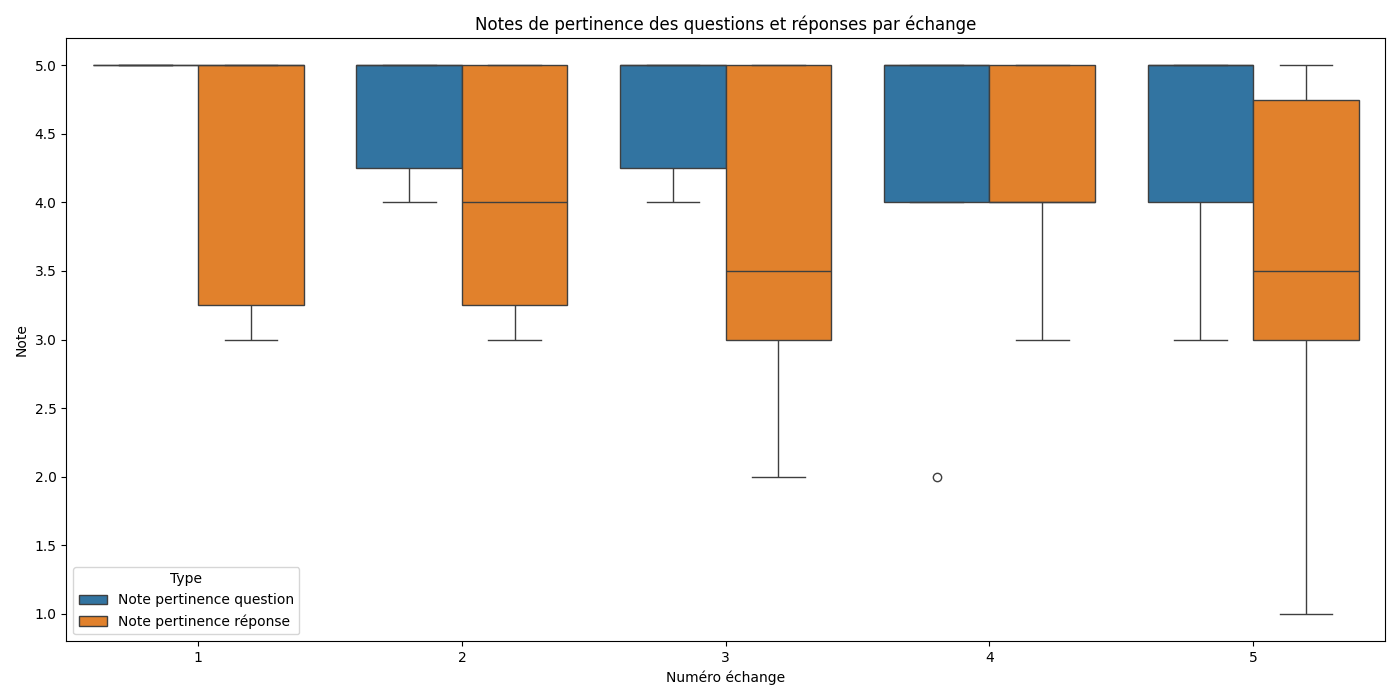
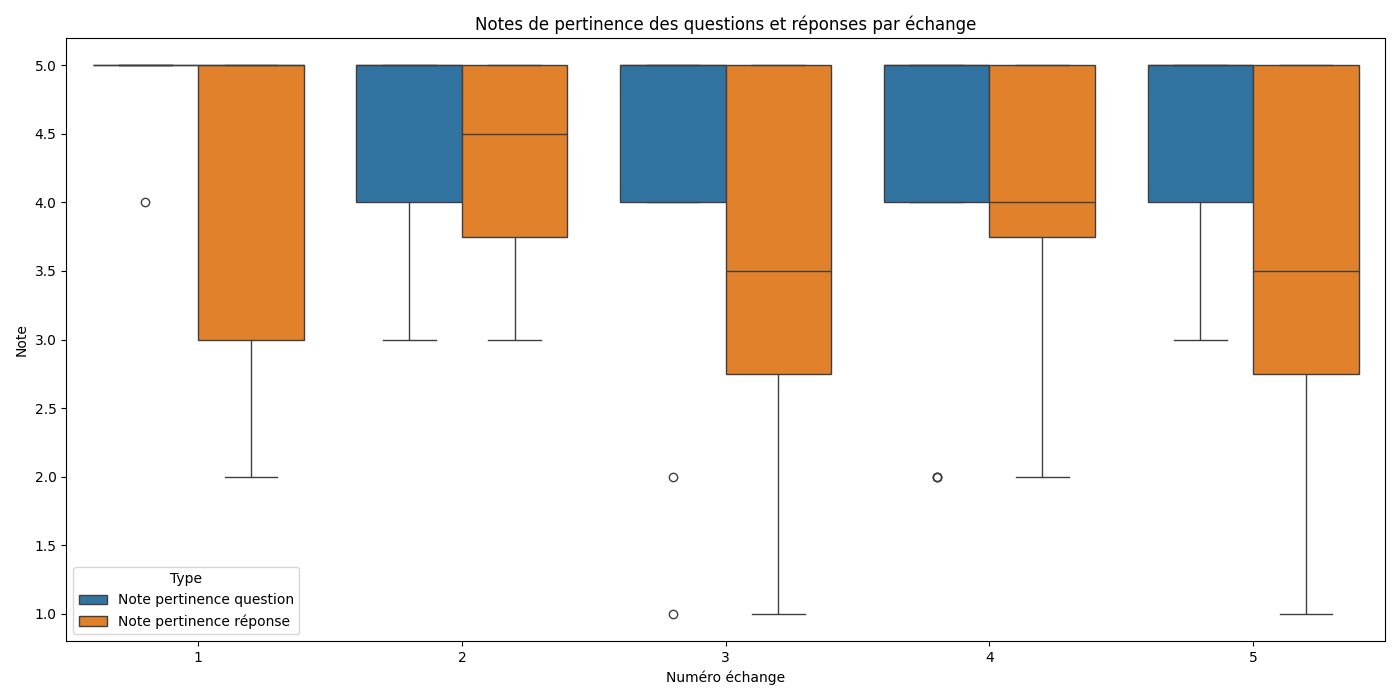
nouvelle évaluation + maj rapport statistique évaluation

diff --git a/sondages/conversations/output/rapport_statistique.md b/sondages/conversations/output/rapport_statistique.md
@@ -1,7 +1,7 @@
 # Rapport Statistique
 
-## Nombre total de conversations : 10
-## Nombre total d'échanges : 50
+## Nombre total de conversations : 16
+## Nombre total d'échanges : 80
 
 ## Graphiques
 
@@ -15,114 +15,115 @@
 
 ## Statistiques pour Échange 1
 ### Note pertinence question
-- **Moyenne**: 5.0
+- **Moyenne**: 4.9375
 - **Médiane**: 5.0
-- **Écart-type**: 0.0
-- **Min**: 5.0
+- **Écart-type**: 0.25
+- **Min**: 4.0
 - **Max**: 5.0
-- **Nombre de valeurs**: 10
+- **Nombre de valeurs**: 16
 ### Note pertinence réponse
-- **Moyenne**: 4.3
+- **Moyenne**: 4.1875
 - **Médiane**: 5.0
-- **Écart-type**: 0.9486832980505138
-- **Min**: 3
+- **Écart-type**: 1.1672617529928753
+- **Min**: 2
 - **Max**: 5
-- **Nombre de valeurs**: 10
+- **Nombre de valeurs**: 16
 ### Réalisme interaction
-- **Oui**: 100.0%
+- **Oui**: 87.5%
+- **Non**: 12.5%
 
 ## Statistiques pour Échange 2
 ### Note pertinence question
-- **Moyenne**: 4.7
+- **Moyenne**: 4.5625
 - **Médiane**: 5.0
-- **Écart-type**: 0.48304589153964794
-- **Min**: 4.0
+- **Écart-type**: 0.7274384280931732
+- **Min**: 3.0
 - **Max**: 5.0
-- **Nombre de valeurs**: 10
+- **Nombre de valeurs**: 16
 ### Note pertinence réponse
-- **Moyenne**: 4.1
-- **Médiane**: 4.0
-- **Écart-type**: 0.8755950357709131
+- **Moyenne**: 4.25
+- **Médiane**: 4.5
+- **Écart-type**: 0.8563488385776752
 - **Min**: 3
 - **Max**: 5
-- **Nombre de valeurs**: 10
+- **Nombre de valeurs**: 16
 ### Réalisme interaction
-- **Oui**: 90.0%
-- **Non**: 10.0%
+- **Oui**: 81.25%
+- **Non**: 18.75%
 
 ## Statistiques pour Échange 3
 ### Note pertinence question
-- **Moyenne**: 4.7
+- **Moyenne**: 4.3125
 - **Médiane**: 5.0
-- **Écart-type**: 0.48304589153964794
-- **Min**: 4.0
+- **Écart-type**: 1.1954775893619531
+- **Min**: 1.0
 - **Max**: 5.0
-- **Nombre de valeurs**: 10
+- **Nombre de valeurs**: 16
 ### Note pertinence réponse
-- **Moyenne**: 3.8
+- **Moyenne**: 3.4375
 - **Médiane**: 3.5
-- **Écart-type**: 1.1352924243950933
-- **Min**: 2
+- **Écart-type**: 1.4127396551853895
+- **Min**: 1
 - **Max**: 5
-- **Nombre de valeurs**: 10
+- **Nombre de valeurs**: 16
 ### Réalisme interaction
-- **Oui**: 90.0%
-- **Non**: 10.0%
+- **Oui**: 75.0%
+- **Non**: 25.0%
 
 ## Statistiques pour Échange 4
 ### Note pertinence question
-- **Moyenne**: 4.333333333333333
+- **Moyenne**: 4.133333333333334
 - **Médiane**: 5.0
-- **Écart-type**: 0.9999999999999999
+- **Écart-type**: 1.1872336794093274
 - **Min**: 2.0
 - **Max**: 5.0
-- **Nombre de valeurs**: 9
+- **Nombre de valeurs**: 15
 ### Note pertinence réponse
-- **Moyenne**: 4.2
+- **Moyenne**: 4.125
 - **Médiane**: 4.0
-- **Écart-type**: 0.7888106377466155
-- **Min**: 3
+- **Écart-type**: 0.9574271077563381
+- **Min**: 2
 - **Max**: 5
-- **Nombre de valeurs**: 10
+- **Nombre de valeurs**: 16
 ### Réalisme interaction
-- **Oui**: 70.0%
-- **Non**: 30.0%
+- **Oui**: 62.5%
+- **Non**: 37.5%
 
 ## Statistiques pour Échange 5
 ### Note pertinence question
-- **Moyenne**: 4.5
+- **Moyenne**: 4.4375
 - **Médiane**: 5.0
-- **Écart-type**: 0.7071067811865476
+- **Écart-type**: 0.8139410298049853
 - **Min**: 3.0
 - **Max**: 5.0
-- **Nombre de valeurs**: 10
+- **Nombre de valeurs**: 16
 ### Note pertinence réponse
-- **Moyenne**: 3.5
+- **Moyenne**: 3.5625
 - **Médiane**: 3.5
-- **Écart-type**: 1.35400640077266
+- **Écart-type**: 1.3647344063956182
 - **Min**: 1
 - **Max**: 5
-- **Nombre de valeurs**: 10
+- **Nombre de valeurs**: 16
 ### Réalisme interaction
-- **Oui**: 70.0%
-- **Non**: 30.0%
+- **Oui**: 56.25%
+- **Non**: 43.75%
 
 ## Statistiques pour Global
 ### Note pertinence question
-- **Moyenne**: 4.653061224489796
+- **Moyenne**: 4.481012658227848
 - **Médiane**: 5.0
-- **Écart-type**: 0.6308400618805605
-- **Min**: 2.0
+- **Écart-type**: 0.9179235135678746
+- **Min**: 1.0
 - **Max**: 5.0
-- **Nombre de valeurs**: 49
+- **Nombre de valeurs**: 79
 ### Note pertinence réponse
-- **Moyenne**: 3.98
+- **Moyenne**: 3.9125
 - **Médiane**: 4.0
-- **Écart-type**: 1.0398194505758767
+- **Écart-type**: 1.1927391090588424
 - **Min**: 1
 - **Max**: 5
-- **Nombre de valeurs**: 50
+- **Nombre de valeurs**: 80
 ### Réalisme interaction
-- **Oui**: 84.0%
-- **Non**: 16.0%
+- **Oui**: 72.5%
+- **Non**: 27.5%
 
